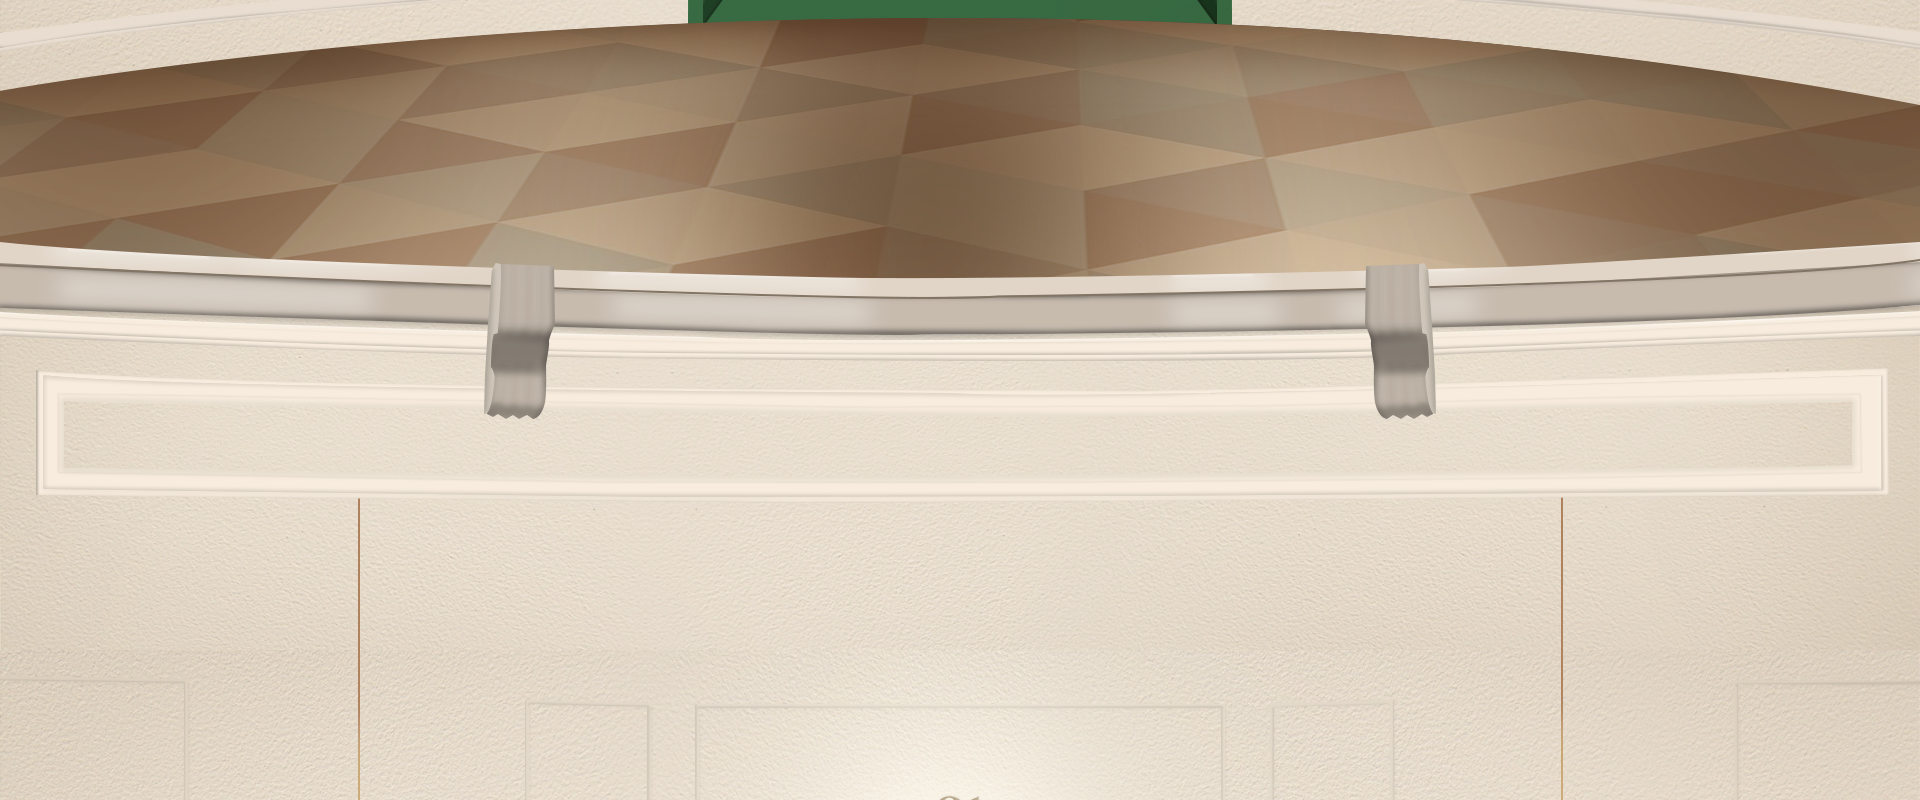
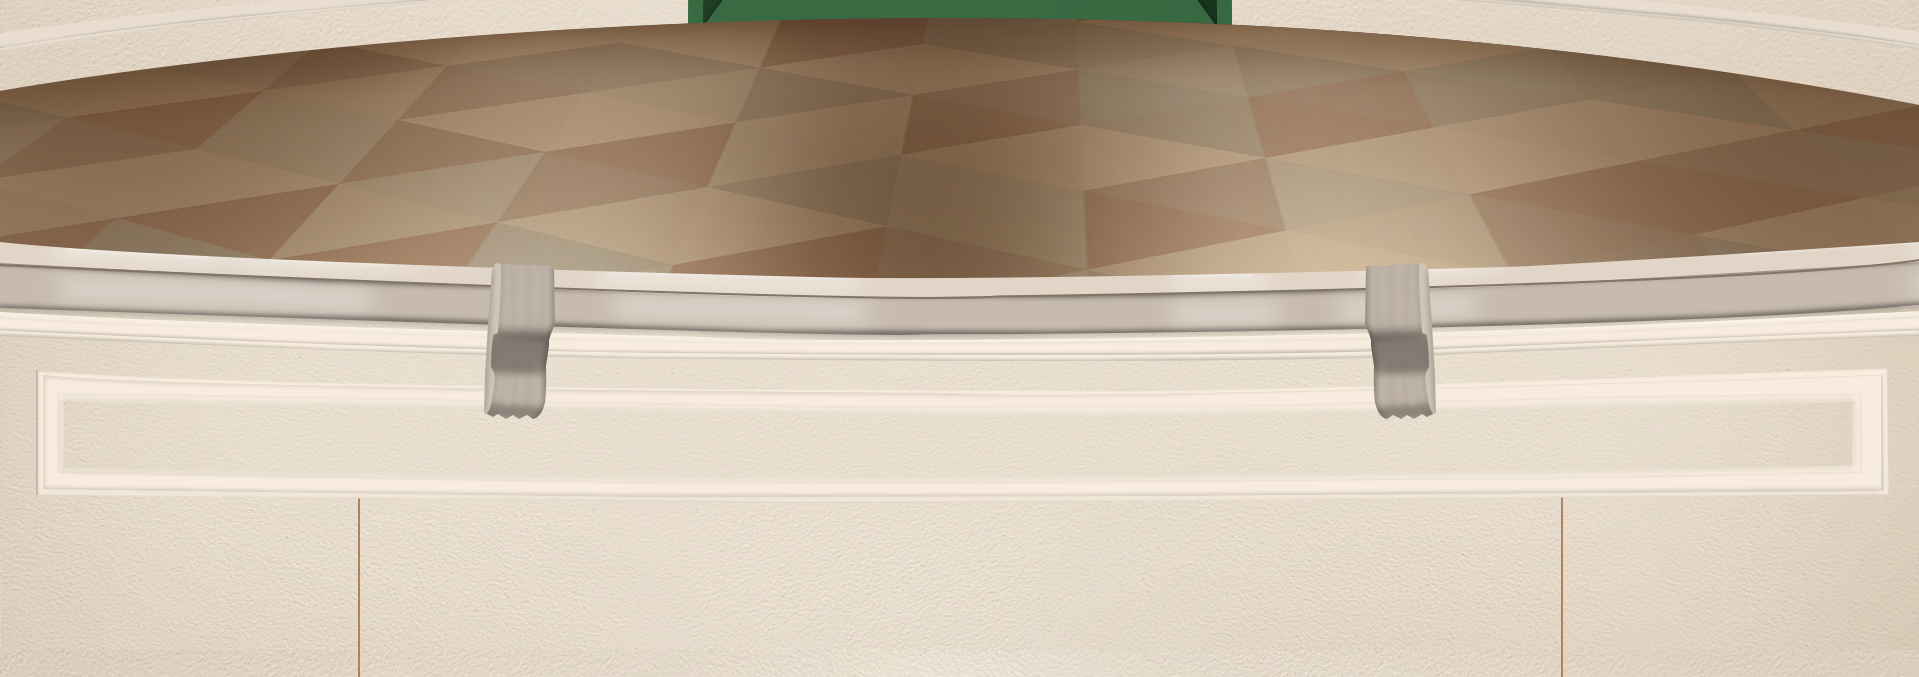
s

diff --git a/index.css b/index.css
@@ -188,12 +188,22 @@ opacity: 0.9;
 }
 
 /*------------------------------floor1-----------------------------*/
-.floor1-2 {
+.floor1-2 .img{
     width: 100%;
     height: 800px;
     background-image: url(/1-2floor.png);
     background-repeat: repeat;
     background-position: center bottom;
+}
+.floor1-2{
+    position: relative;
+    width: 100%;
+    height: 100%;
+}
+.floor1{
+    position: relative;
+    width: 100%;
+    height: 100%;
 }
 
 .floor1 .img-flex-1 {
@@ -203,11 +213,15 @@ opacity: 0.9;
 }
 
 .floor1 .back-img {
-    width: 100%;
+    width: 1980px;
     height: 980px;
     background-image: url(/1floor/dip1.png);
-    background-repeat: repeat;
-    background-position: center bottom;
+    background-repeat: no-repeat;
+    background-position: center;
+    position: absolute;
+    top: 50%;
+    left: 50%;
+    transform: translate(-50%, -50%);
 }
 
 .L-box {

diff --git a/index.html b/index.html
@@ -10,7 +10,7 @@
 </head>
 
 <body>
-    <section class="floor-3">
+    <!-- <section class="floor-3">
         <div class="floor3">
             <div class="img-flex-3">
                 <div class="back-img3">
@@ -74,8 +74,10 @@
                 </div>
             </div>
         </div>
+    </section> -->
+    <section class="floor1-2">
+        <div class="img"></div>
     </section>
-    <section class="floor1-2"></section>
     <section class="floor-1">
         <div class="floor1">
             <div class="img-flex-1">
